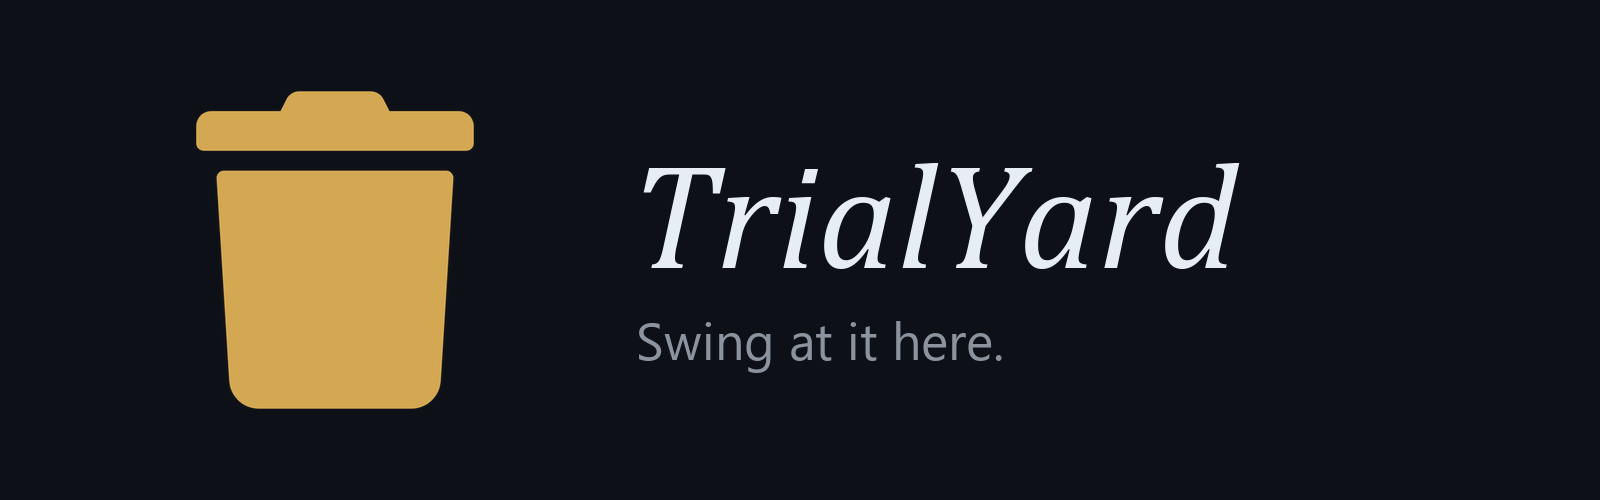
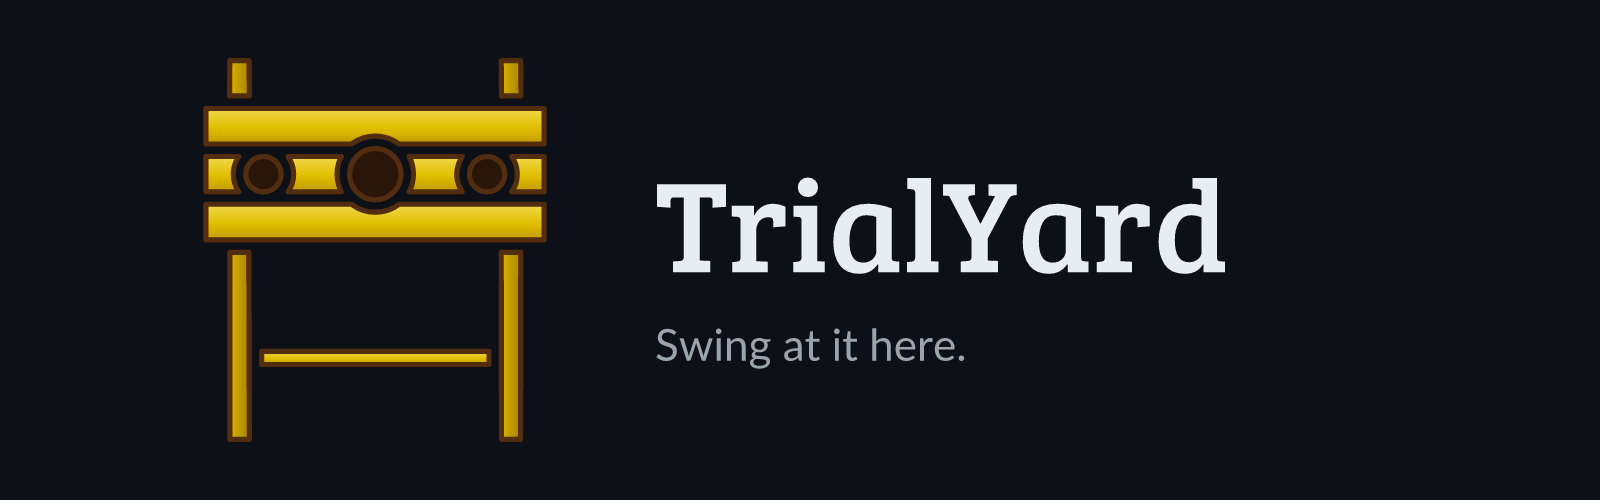
House font, a coloured pillory, and a screenshot of the real thing
The mark was a flat trash can. It is the medieval pillory it was always meant
to be: house gold as wood, brown for the outline and the shading, and the three
circles are openings for head and hands rather than fill. Same palette as the
straw knight, so the two read as a pair.

Banner in the house pairing, Bree Serif and Lato, via the same generator.
README in the house order with a table of contents and Screenshots as section
2: Chrome running on the desktop, seen through a browser tab.

feh switches from --bg-fill to --bg-max for the same reason as in StrawKnight.
The first screenshot showed the wallpaper hint twice, side by side, because a
cropped image no longer covered the root window.

Changed region(s): [[0.125, 0.12, 0.3438, 0.9], [0.4062, 0.33, 0.7812, 0.57], [0.375, 0.63, 0.625, 0.75]]

diff --git a/README.md b/README.md
@@ -41,6 +41,20 @@ If it has earned a place on your computer or server, a donation covers what it c
 
 <br>
 
+## Table of Contents
+
+1. [What it is](#1-what-it-is)
+2. [Screenshots](#2-screenshots)
+3. [Why it exists](#3-why-it-exists)
+4. [The rule](#4-the-rule)
+5. [What is inside](#5-what-is-inside)
+6. [Things learned the hard way](#6-things-learned-the-hard-way)
+7. [Building and running it](#7-building-and-running-it)
+8. [Why this repo exists at all](#8-why-this-repo-exists-at-all)
+9. [Support this project](#9-support-this-project)
+
+<br>
+
 ## 1. What it is
 
 A trial yard is the walled ground a smith keeps beside the forge: the place where a blade gets swung at something breakable, on purpose, before anyone carries it.
@@ -51,7 +65,19 @@ No Community Applications listing and no Docker Hub mirror: this one is built an
 
 <br>
 
-## 2. Why it exists
+## 2. Screenshots
+
+<p align="center">
+  <img src=".github/assets/screenshots/desktop.png" alt="Google Chrome on the TrialYard desktop, in a browser tab" width="100%">
+</p>
+
+<p align="center">
+  <sub>Chrome running on the desktop, seen through a browser tab. The desktop is the thing in the tab, and the browser inside it is real.</sub>
+</p>
+
+<br>
+
+## 3. Why it exists
 
 A background test agent for [selkies-project/selkies#305](https://github.com/selkies-project/selkies/pull/305) reported back that it had "no browser or GPU on my box", while two machines with GPUs sat in the same house. The gap was not hardware, it was that nothing was standing ready to be used.
 
@@ -59,7 +85,7 @@ So something is. A headful click, a pointer lock, a hardware decode, a screensho
 
 <br>
 
-## 3. The rule
+## 4. The rule
 
 **Every test runs here first.** No ad-hoc test containers.
 
@@ -67,7 +93,7 @@ Only the thing under test gets a container of its own; the client that pokes at 
 
 <br>
 
-## 4. What is inside
+## 5. What is inside
 
 | | |
 |---|---|
@@ -83,7 +109,7 @@ The mount list is short on purpose: the sandbox cannot reach production data, be
 
 <br>
 
-## 5. Things learned the hard way
+## 6. Things learned the hard way
 
 Each of these cost a diagnosis once. They are here so they cost nothing the second time.
 
@@ -105,7 +131,7 @@ Each of these cost a diagnosis once. They are here so they cost nothing the seco
 
 <br>
 
-## 6. Building and running it
+## 7. Building and running it
 
 ```sh
 docker build -t junkerderprovinz/trialyard:latest .
@@ -122,7 +148,7 @@ php /usr/local/emhttp/plugins/dynamix.docker.manager/scripts/rebuild_container T
 
 <br>
 
-## 7. Why this repo exists at all
+## 8. Why this repo exists at all
 
 It did not, until 2026-09-13. The source lived as a folder on the array, with no
 history and no diff, which is one careless overwrite away from being
@@ -135,7 +161,7 @@ lives.
 
 <br>
 
-## 8. Support this project
+## 9. Support this project
 
 Problems, wishes or suggestions? You're welcome to [open an issue](https://github.com/junkerderprovinz/trialyard/issues).
 
